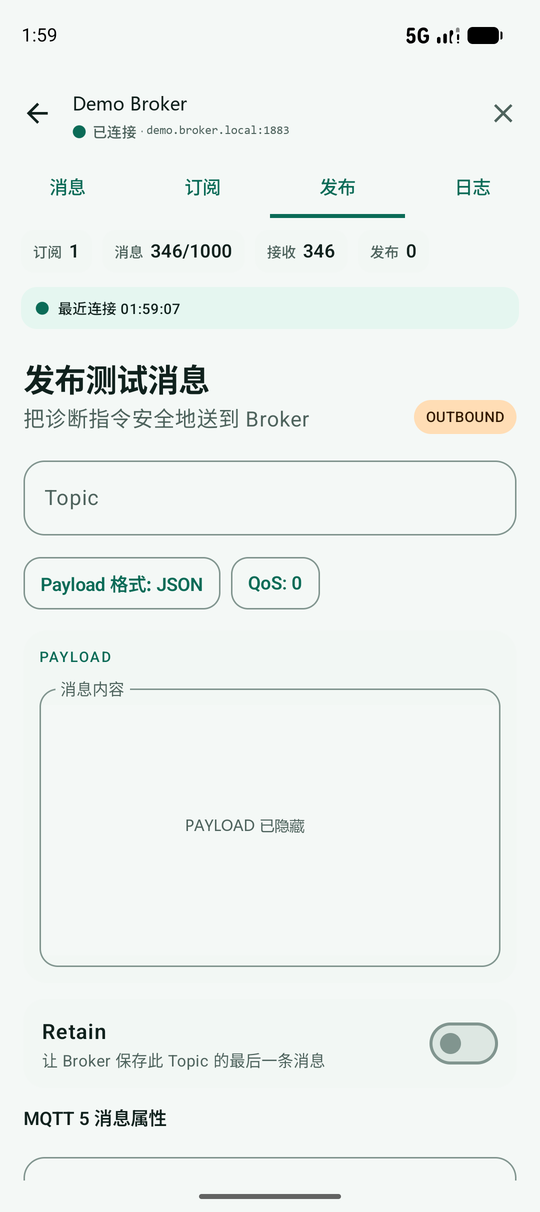
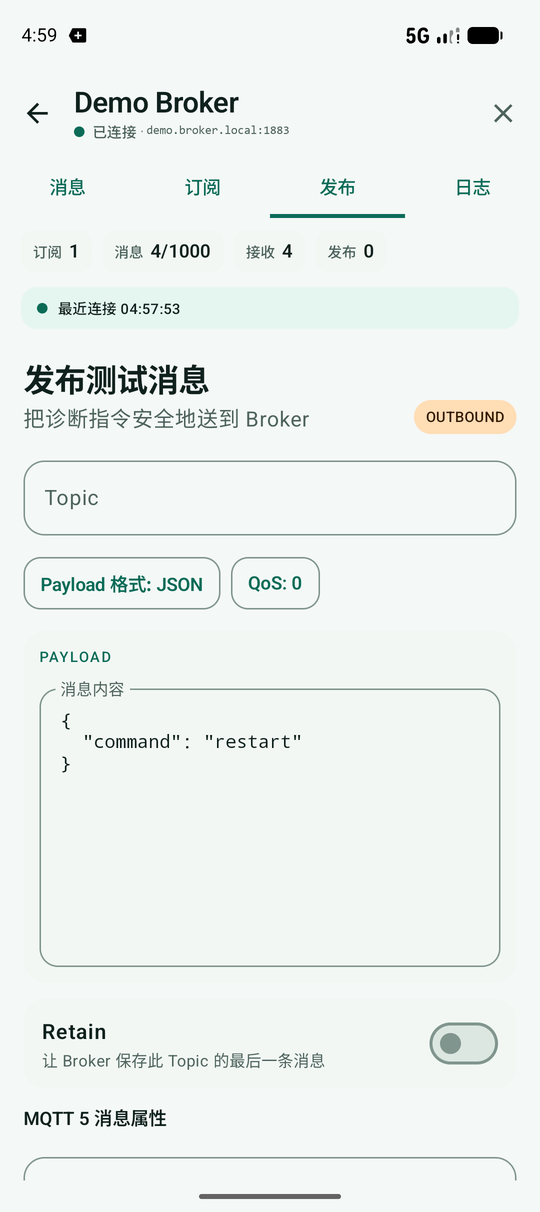
docs: refresh README screenshots with demo data

diff --git a/README.md b/README.md
@@ -30,7 +30,7 @@
 
 ## 界面预览
 
-下面的截图来自最新构建，使用演示数据并隐藏了连接地址、Topic、Payload 和日志字段。图片保留完整手机画布比例，点击图片可以查看原图。
+下面的截图来自本地演示 Broker，连接地址使用 `demo.broker.local`，消息 Topic/Payload 与订阅 Topic 均为虚构测试数据，不包含真实连接信息。图片保留完整手机画布比例，点击图片可以查看原图。
 
 <table>
   <tr>
